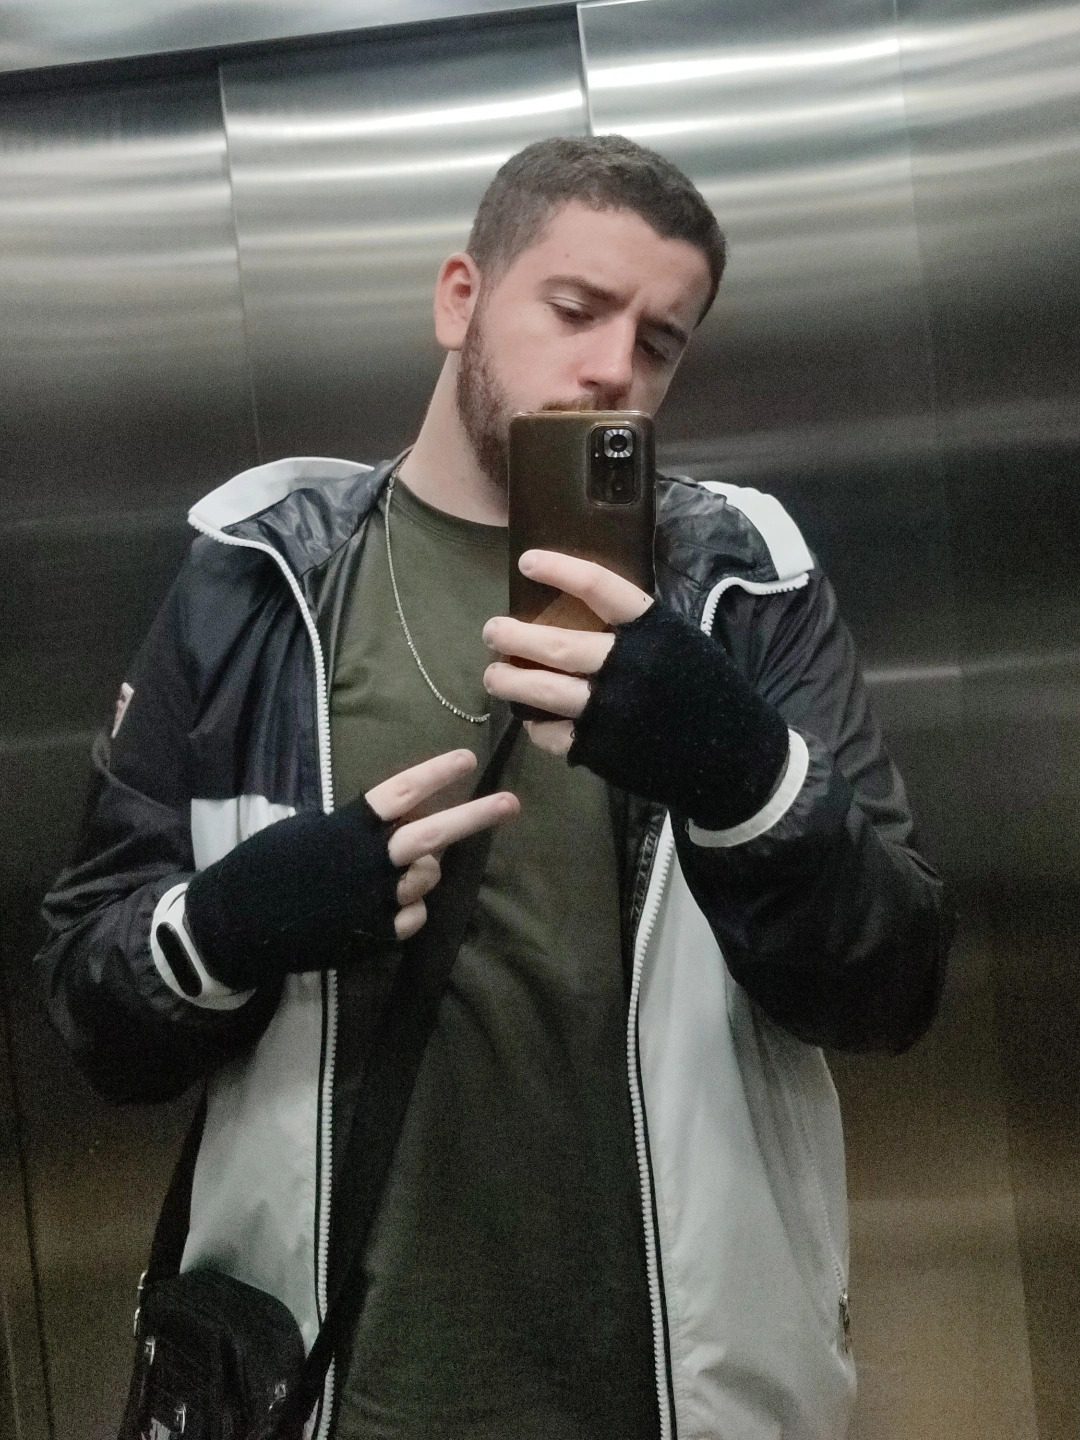
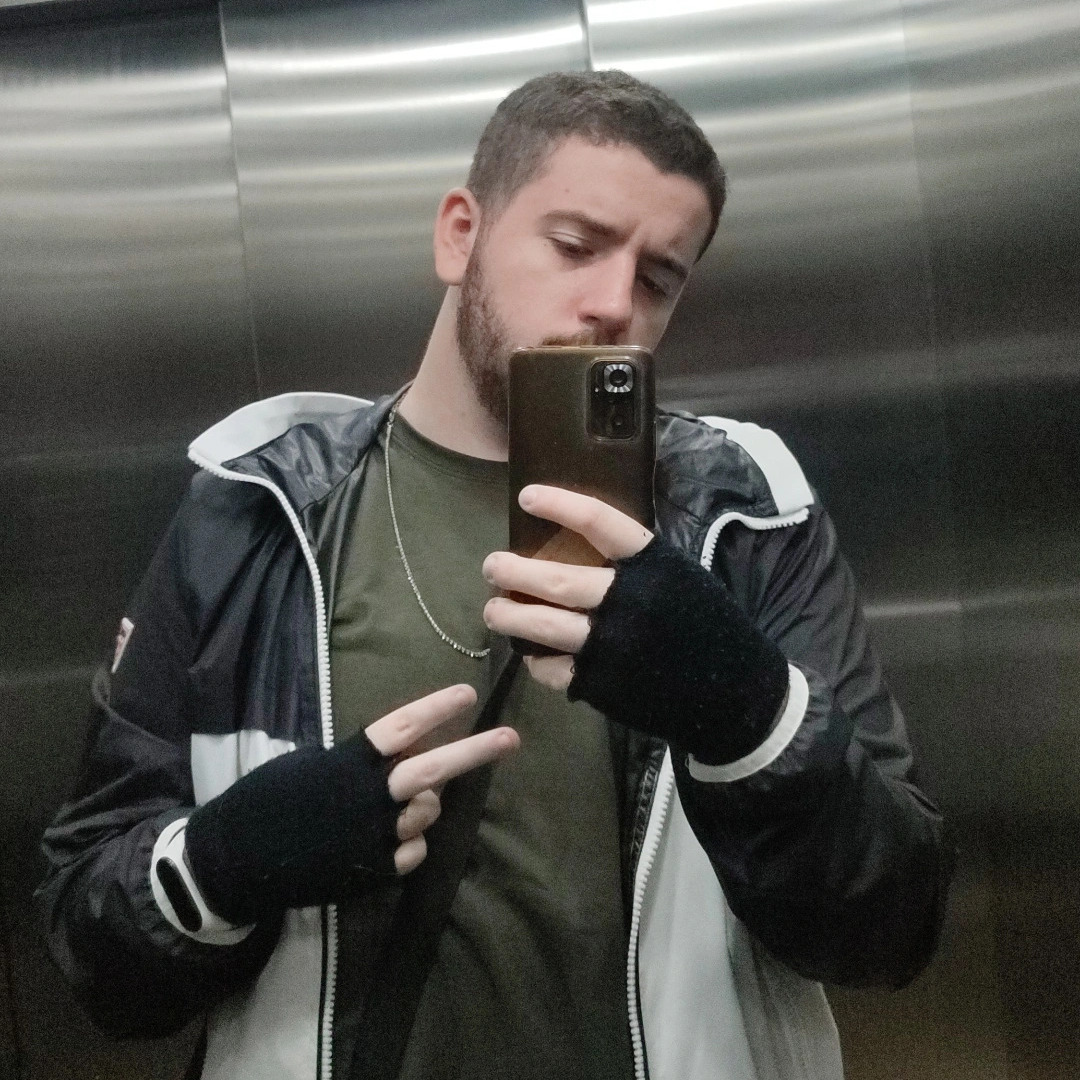
Add files via upload

diff --git a/jogo.js b/jogo.js
@@ -1,69 +1,74 @@
-var canvas = document.getElementById("canvas");
-var context = canvas.getContext("2d");
-const boneco = new Image();
-boneco.src = "img/pato.png";
-const cano_cima = new Image();
-cano_cima.src = "img/cano_cima.png";
-const cano_baixo = new Image();
-cano_baixo.src = "img/cano_baixo.png";
-var bonecoX = 10;
-var interval = 20;
-var bonecoY = 300;
-var bonecoDY = 0
-var gravidade = 0.5;
-var canoX = 1000;
-var cano2X = 1500;
-var cano1_bocaCimaY = 350
-var cano2_bocaCimaY = 80
-var score = 0
-var recorde = 0
-function clicou() {
-    bonecoDY = 10
-}
-setInterval(function () {
-    context.clearRect(0, 0, 1000, 600);
-    bonecoY -= bonecoDY -= gravidade;
-    context.drawImage(boneco, bonecoX, bonecoY, 46, 75);
-    context.fillStyle = "#00ff00";
-    context.fillRect(canoX, 0, 50, cano1_bocaCimaY);
-    context.fillRect(canoX, cano1_bocaCimaY + 200, 50, 600);
-    canoX -= 8
-    context.fillRect(cano2X, 0, 50, cano2_bocaCimaY);
-    context.fillRect(cano2X, cano2_bocaCimaY + 200, 50, 600);
-    cano2X -= 8
-    context.fillStyle = "#000000"
-    context.fillText(`Ponutação: ${score++}`, 9, 25)
-    context.fillText(`Recorde: ${recorde}`, 9, 50)
-    if (canoX < -50) {
-        canoX = 1000
-        cano1_bocaCimaY = 200 * Math.random()
+function jogo() {
+    var canvas = document.getElementById("canvas");
+    var context = canvas.getContext("2d");
+    const boneco = new Image();
+    boneco.src = "img/pato.png";
+    const cano_cima = new Image();
+    cano_cima.src = "img/cano_cima.png";
+    const cano_baixo = new Image();
+    cano_baixo.src = "img/cano_baixo.png";
+    var bonecoX = 10;
+    var interval = 20;
+    var bonecoY = 270;
+    var bonecoDY = 0
+    var gravidade = 0.5;
+    var canoX = 900;
+    var cano2X = 1350;
+    var cano1_bocaCimaY = 315
+    var cano2_bocaCimaY = 72
+    var score = 0
+    var recorde = 0
+    function clicou() {
+        bonecoDY = 10
     }
-    if (cano2X < -50) {
-        cano2X = 1000
-        cano2_bocaCimaY = 200 * Math.random()
-    }
-    if (bonecoY > 600) { // boneco caiu da tela
-        bonecoDY = 0
-        bonecoY = 300
-        canoX = 1000
-        cano2X = 1500
-        score = 0
-    }
-    if ((bonecoY < cano1_bocaCimaY || bonecoY > (cano1_bocaCimaY + 200)) && canoX < (bonecoX)) {
-        bonecoDY = 0
-        bonecoY = 300
-        canoX = 1000
-        cano2X = 1500
-        score = 0
-    } // boneco bateu no cano
-    if ((bonecoY < cano2_bocaCimaY || bonecoY > (cano2_bocaCimaY + 200)) && cano2X < (bonecoX)) {
-        bonecoDY = 0
-        bonecoY = 300
-        canoX = 1000
-        cano2X = 1500
-        score = 0
-    } // boneco bateu no cano
-    if (recorde < score) {
-        recorde = score
-    }
-}, interval);
+    canvas.addEventListener("click", function(){
+        bonecoDY = 10
+    }, false)
+    setInterval(function () {
+        context.clearRect(0, 0, 900, 540);
+        bonecoY -= bonecoDY -= gravidade;
+        context.drawImage(boneco, bonecoX, bonecoY, 41.4, 67.5);
+        context.fillStyle = "#00ff00";
+        context.fillRect(canoX, 0, 45, cano1_bocaCimaY);
+        context.fillRect(canoX, cano1_bocaCimaY + 180, 45, 540);
+        canoX -= 8
+        context.fillRect(cano2X, 0, 45, cano2_bocaCimaY);
+        context.fillRect(cano2X, cano2_bocaCimaY + 180, 45, 540);
+        cano2X -= 8
+        context.fillStyle = "#000000"
+        context.fillText(`Ponutação: ${score++}`, 9, 25)
+        context.fillText(`Recorde: ${recorde}`, 9, 50)
+        if (canoX < -45) {
+            canoX = 900
+            cano1_bocaCimaY = 180 * Math.random()
+        }
+        if (cano2X < -45) {
+            cano2X = 900
+            cano2_bocaCimaY = 180 * Math.random()
+        }
+        if (bonecoY > 540) { // boneco caiu da tela
+            bonecoDY = 0
+            bonecoY = 270
+            canoX = 900
+            cano2X = 1350
+            score = 0
+        }
+        if ((bonecoY < cano1_bocaCimaY || bonecoY > (cano1_bocaCimaY + 180)) && canoX < (bonecoX)) {
+            bonecoDY = 0
+            bonecoY = 270
+            canoX = 900
+            cano2X = 1350
+            score = 0
+        } // boneco bateu no cano
+        if ((bonecoY < cano2_bocaCimaY || bonecoY > (cano2_bocaCimaY + 180)) && cano2X < (bonecoX)) {
+            bonecoDY = 0
+            bonecoY = 270
+            canoX = 900
+            cano2X = 1350
+            score = 0
+        } // boneco bateu no cano
+        if (recorde < score) {
+            recorde = score
+        }
+    }, interval);
+};

diff --git a/home.html b/home.html
@@ -41,8 +41,8 @@
         <div class="fundotexto">
             <div class="texto">
                 <p>&emsp;O objetivo do WingIt! é guiar um patinho através do máximo de obstáculos possível, desviando deles e evitando que o pato caia no chão.</p>
-                <p>&emsp; isso acontecer, a pontuação é definida para 0 e o jogo reinicia. A pontuação do jogador aumenta de acordo com o tempo que ele consegue sobreviver.</p>
-                <p>&emsp; pato é controlado clicando na tela do jogo, o que faz o pular, e se o jogador não clicar na tela, o pássaro cai de acordo com a gravidade.</p>
+                <p>&emsp;Se isso acontecer, a pontuação é definida para 0 e o jogo reinicia. A pontuação do jogador aumenta de acordo com o tempo que ele consegue sobreviver.</p>
+                <p>&emsp;O pato é controlado clicando na tela do jogo, o que faz o pular, e se o jogador não clicar na tela, o pássaro cai de acordo com a gravidade.</p>
                 <p>&emsp; WingIt! tem uma jogabilidade bastante intuitiva e simples, mas consegue, ao mesmo tempo, ser um jogo desafiador devido ao mecanismo de controle preciso e obstáculos gerados aleatoriamente, que andam rapidamente na direção do jogador.</p>
             </div>
         </div>

diff --git a/jogo.css b/jogo.css
@@ -72,7 +72,7 @@ a{
 }
 #tutorial{
     font-family: Righteous;
-    font-size: 25pt;
+    font-size: 11pt;
     color: indigo;
 }
 #jogo{
@@ -82,4 +82,29 @@ a{
     justify-content: center;
     align-items: center;
     flex-flow: column nowrap;
+}
+#botIniciar{
+    position: absolute;
+    top: 45vh;
+    left: 5vw;
+}
+.botIniciar {
+    background-color:#d3abed;
+    border-radius:28px;
+    border:1px solid #7f6ac4;
+    display:inline-block;
+    cursor:pointer;
+    color:#ffffff;
+    font-family:Arial;
+    font-size:17px;
+    padding:16px 31px;
+    text-decoration:none;
+    text-shadow:0px 1px 0px #a382bf;
+}
+.botIniciar:hover {
+    background-color:#8181eb;
+}
+.botIniciar:active {
+    position:relative;
+    top:1px;
 }

diff --git a/alunos.html b/alunos.html
@@ -40,7 +40,7 @@
     <br>
 </div>
 <div class="caixadopedro">
-    <div class="imagempedro"> <img width="400" height="400" src="img/foto-pedro2.jpg"></div>
+    <div class="imagempedro"> <img width="400" height="400" src="img/foto-pedro.jpg"></div>
     <div class="apresentação_pedro">
         <div class="dadospedro"> Pedro Alexandre Custódio Silva RA: 22.123.049-3 pecustodio030703@gmail.com</div>
         <div class="infopedro">Atualmente sou estagiário da Siemens DISW e esse é meu primeiro projeto de computação da faculdade, gosto muito de música, meu artista favorito é o Joji, filmes, meu filme favorito é guardiões da galáxia 3, pesquisar sobre tecnologia e viajar, o lugar mais legal que eu fui é Buenos Aires</div>

diff --git a/jogo.html b/jogo.html
@@ -28,10 +28,12 @@
 <br>
 <br>
 <br>
-<div id="jogo">
+<br>
+<div id="jogo" onclick="clicou()">
     <p id="tutorial">CLIQUE NO JOGO PARA PULAR</p>
-    <canvas onclick="clicou()" id="canvas" width="1000" height="600"></canvas>
+    <canvas onclick="clicou()" id="canvas" width="900" height="540"></canvas>
 </div>
+<button id="botIniciar" type="button" class="botIniciar" onclick="jogo()">Iniciar!</button>
 </body>
 <script src="jogo.js"></script>
 </html>

diff --git a/alunos.css b/alunos.css
@@ -86,6 +86,7 @@ body {
     flex-flow: column nowrap;
 }
 .dadospedro{
+    font-weight: bold;
     font-family: "Calibri Light";
     font-size: 1.5vw;
     margin-inline: 15px;
@@ -136,6 +137,7 @@ body {
 }
 
 .dadoslaura{
+    font-weight: bold;
     font-family: "Calibri Light";
     font-size: 1.5vw;
     margin-inline: 15px;

diff --git a/home.css b/home.css
@@ -75,7 +75,7 @@ a{
 }
 .texto{
     font-family: "Calibri";
-    font-size: 19pt;
+    font-size: 1.63vw;
     font-weight: normal;
     color: black;
     width: 55vw;
@@ -86,6 +86,7 @@ a{
     display:flex;
     text-align: center;
     justify-content: center;
+    align-items: center;
 }
 .fundotexto{
     display: flex;
